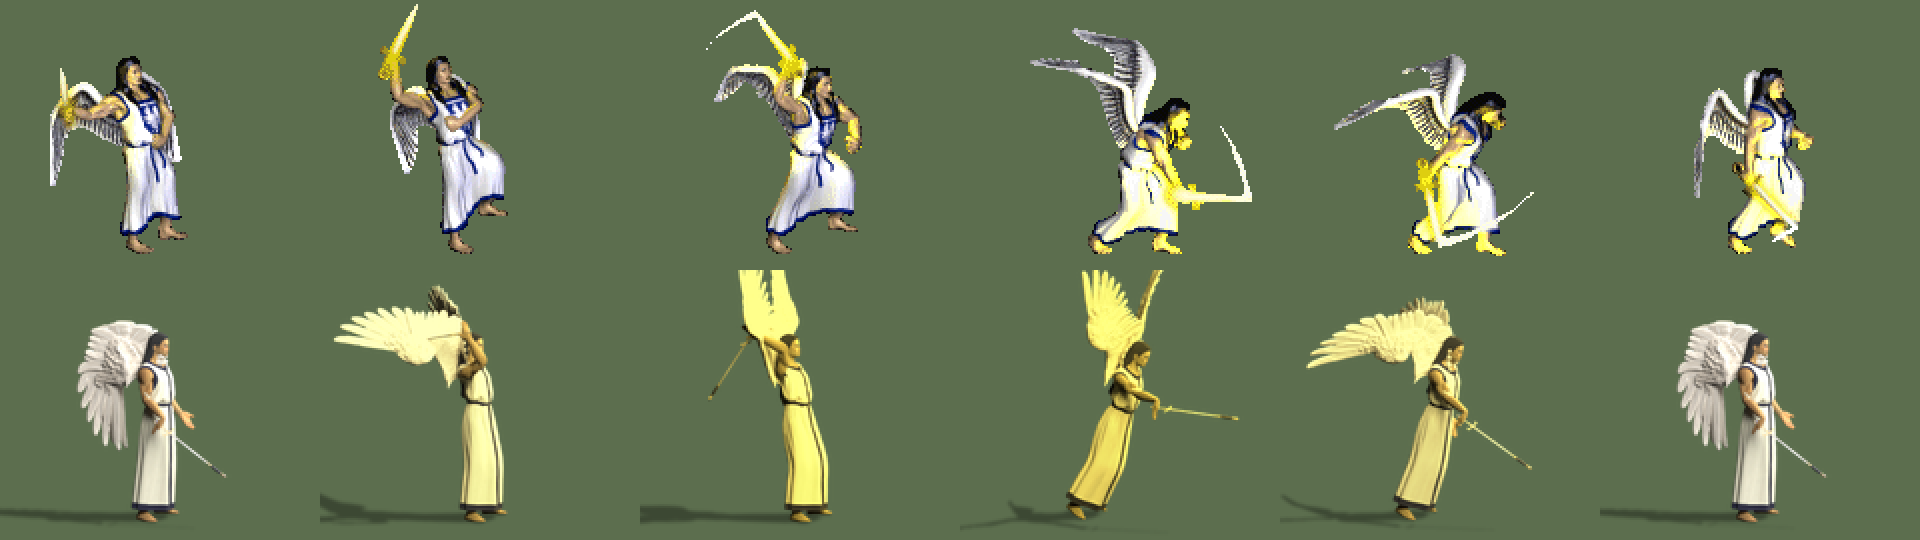
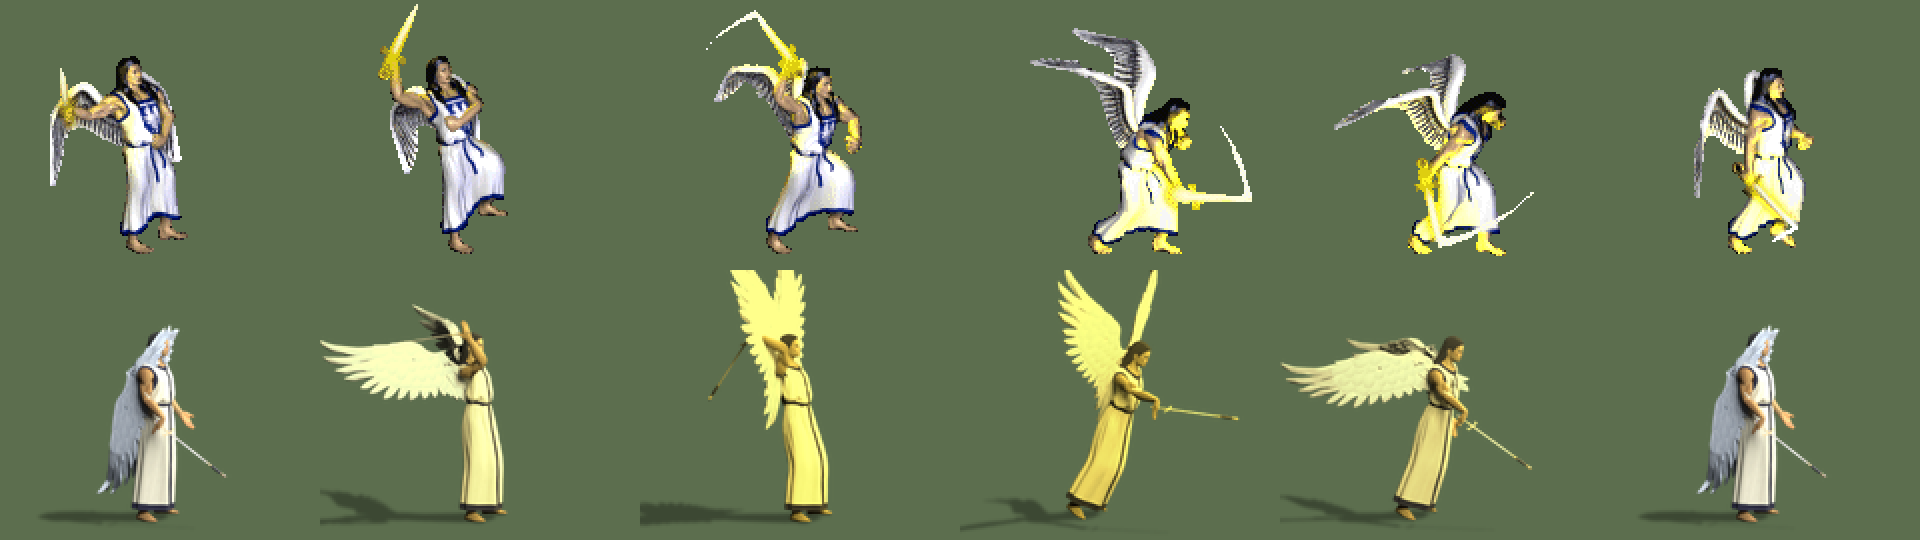
Rebuild angel wings: Meshy text-to-3D wing pair, native flap and fold
Angel 0.18.1 and Archangel 0.19.1 (mod 0.21.0). Adds a native / first
wings / rebuilt comparison and regenerates the angel figures from the
installed sprites.

diff --git a/content/posts/castle-cavalry-angels.md b/content/posts/castle-cavalry-angels.md
@@ -3,7 +3,7 @@ title: "[AI] Castle cavalry and angels"
 date: 2026-09-26T12:20:00+08:00
 series: ["Enhancing Heroes III with Generative AI"]
 ai: true
-homeSummary: "Full action sets for the Cavalier, Champion, Angel and Archangel are in the local test mod, compared frame by frame with the originals; battle screenshots and art review are still to do."
+homeSummary: "Full action sets for the Cavalier, Champion, Angel and Archangel are in the local test mod, with rebuilt angel wings, compared frame by frame with the originals; battle screenshots and art review are still to do."
 tags: ["vcmi", "ai", "graphics", "blender", "meshy", "flux", "castle"]
 ---
 
@@ -47,7 +47,15 @@ The new concept comes from [FLUX.2 [pro]](https://bfl.ai/) by Black Forest Labs:
 
 ![Left: the old draft, static render. Right: the new Angel body, Blender still, wings not attached](/images/castle-top-tier-01/angel-models.jpg)
 
-Each wing has three bones hung off the chest, with weights blended by distance from the root, so body, wings and sword share one pose. A folded wing bends 110–130° at the wrist; at 170° the outer part folds back onto the shoulder.
+Each wing has three bones hung off the chest, with weights blended by distance from the root, so body, wings and sword share one pose. <s>A folded wing bends 110–130° at the wrist; at 170° the outer part folds back onto the shoulder.</s>
+
+### Wings rebuilt (26 September)
+
+The first wings came from a FLUX concept of a single wing. They were short and broad, the feathers ran together, they stood straight up in flight, and folded they made a large fan behind the back. The rebuilt wings come from Meshy's text-to-3D, straight from a text prompt with no concept image. Two candidates cost 20 credits each for the preview and 10 for the texture. The one kept came back as a spread pair joined by a small piece of body, with layered coverts and separate primaries. Cut down the middle with the body removed, each half is one wing.
+
+The poses were redone against the original frames too. In flight the original sweeps the wings back almost level, then raises them and strokes forward and down; they do not pump straight up and down. Folded, they hang flat against the back with the top above the shoulders and the tips at the thighs. Folding within the wing's own plane had turned the underside out, leaving a dark hole in the middle.
+
+![Original (top), first wings (middle), rebuilt (bottom): idle and three flight frames](/images/castle-top-tier-01/angel-wings.png)
 
 The original glows gold when attacking and when selected. The draft adds the glow during packaging, only on the frames that glow in the original, by pushing each pixel toward gold according to its brightness.
 
@@ -68,12 +76,12 @@ The Angels' DEFs contain three shooting groups. Neither unit shoots, so those gr
 | Unit | Version | Frames | PNGs |
 | --- | --- | --- | --- |
 | Cavalier | 0.17.1 | 81 | 342 |
-| Angel | 0.18.0 | 94 | 412 |
-| Archangel | 0.19.0 | 91 | 394 |
+| Angel | 0.18.1 | 94 | 412 |
+| Archangel | 0.19.1 | 91 | 394 |
 | Champion | 0.20.0 | 81 | 342 |
 
-Frame counts and canvases come from each unit's original DEF, and the packaging check reports 0 errors and 0 warnings. Every install backs up the files it replaces and has a checked rollback.
+Frame counts and canvases come from each unit's original DEF, and the packaging check reports 0 errors and 0 warnings. With the new wings the mod is at 0.21.0. Every install backs up the files it replaces and has a checked rollback.
 
 The 0.17.0 Cavalier loaded in a real battle, but that was before the camera fix. The four new versions have no battle screenshots yet: the test client hung during start-up this time.
 
-Known issues: the Angel flies too upright and its wings are larger than the original's; the Archangel's glow is too orange overall; the Cavalier's idle lance is held level where the original holds it upright; the Champion's barding lacks the white hem.
+Known issues: the Angel's wings open wider than the original's in the last death frame; the Archangel's glow is too orange overall; the Cavalier's idle lance is held level where the original holds it upright; the Champion's barding lacks the white hem.

diff --git a/content/posts/castle-halberdier-bootstrap.md b/content/posts/castle-halberdier-bootstrap.md
@@ -2794,13 +2794,13 @@ All fourteen models were generated from separate reviewed concepts and then chec
 | Swordsman | Thirteen groups and 76 frames installed at 1×/2×; a test battle read 45 distinct 2× body frames across nine groups; offline holding crop is centred, with native visual and transition review pending |
 | Monk | Installed local 0.6.0 candidate: fifteen groups, 109 frames, 1×/2× bodies, shadows, outlines and spell projectiles. Native logs read 109 body images across 15 groups; appearance and transitions remain under review |
 | Cavalier | <s>Separate rider, horse and lance have a melee draft; grip, full horse attack and original cadence unresolved, not installed</s><br>2026-09-26: 13 groups, 81 frames installed as 1×/2× local test 0.17.1, with a new death and the original's left-side view. See [Castle cavalry and angels](/posts/castle-cavalry-angels/). |
-| Angel | <s>Meshy humanoid rig, four local wing bones; 8-frame holding and 7-frame flight review accepted; <s>first sword rebind leaves a second vertical rest weapon and is rejected</s>; separate Meshy sword passes static review, but the matching unarmed-body candidate has perforated wings and is rejected</s><br>2026-09-26: the old model was off-likeness and was rebuilt from a new concept; 13 groups, 94 frames installed (0.18.0). See [Castle cavalry and angels](/posts/castle-cavalry-angels/). |
+| Angel | <s>Meshy humanoid rig, four local wing bones; 8-frame holding and 7-frame flight review accepted; <s>first sword rebind leaves a second vertical rest weapon and is rejected</s>; separate Meshy sword passes static review, but the matching unarmed-body candidate has perforated wings and is rejected</s><br>2026-09-26: the old model was off-likeness and was rebuilt from a new concept; 13 groups, 94 frames installed (0.18.0; 0.18.1 with rebuilt wings, 26 September). See [Castle cavalry and angels](/posts/castle-cavalry-angels/). |
 | Marksman | Installed 1×/2× test package has 16 active groups /97 frames; combined native logs read 87 body images in 15 groups, with the prone death revision installed. Defence coverage, fingers and action transitions unfinished |
 | Royal Griffin | <s>New flight-specific Meshy mesh has flight, front pounce, hit and defence trials; directional attacks, death, full layers and integration unfinished</s><br>2026-09-22 correction: the 13-clip, 85-frame draft is installed as private test 0.15.0. Mod startup loading was verified; battle behavior, wing intersections and appearance remain unaccepted. |
 | Crusader | Private 0.13.0 test installed: thirteen groups, 76 frames; armor/shield proportions and front-attack/hit revisions. Native likeness, garments, death and transitions remain unfinished. |
 | Zealot | Mantle revision 638 installed: 18 groups, 150 slots, 1×/2×. New native logs read 113 body images across 14 groups and three projectile directions. Defence, three special groups and visual acceptance remain unfinished |
 | Champion | <s>Mounted gait and skin-weight repair remain experimental; version26 rejected, with local joint deformation and original gait still unresolved in version25; not installed</s><br>2026-09-26: now uses the Cavalier's rig and motion with plume, eagle shield and horse armour; 13 groups, 81 frames installed (0.20.0). See [Castle cavalry and angels](/posts/castle-cavalry-angels/). |
-| Archangel | <s>Separate Meshy sword with a local-wing humanoid rig; holding, 7-frame flight, three 6-frame sword attacks, 10-frame defence, 6-frame hit, and move transitions accepted in review</s><br>2026-09-26: rebuilt on a new model; 13 groups, 91 frames installed (0.19.0). See [Castle cavalry and angels](/posts/castle-cavalry-angels/). |
+| Archangel | <s>Separate Meshy sword with a local-wing humanoid rig; holding, 7-frame flight, three 6-frame sword attacks, 10-frame defence, 6-frame hit, and move transitions accepted in review</s><br>2026-09-26: rebuilt on a new model; 13 groups, 91 frames installed (0.19.0; 0.19.1 with rebuilt wings). See [Castle cavalry and angels](/posts/castle-cavalry-angels/). |
 
 <details>
 <summary>Roster overview before this update (historical)</summary>

diff --git a/content/posts/castle-cavalry-angels.zh.md b/content/posts/castle-cavalry-angels.zh.md
@@ -3,7 +3,7 @@ title: "[AI]城堡骑士与天使"
 date: 2026-09-26T12:20:00+08:00
 series: ["用生成式ai增强英雄无敌3"]
 ai: true
-homeSummary: "骑士、骑士统领、天使、大天使的完整动作组已装进本地测试版，附原版逐帧对照；实战截图和造型验收还没做。"
+homeSummary: "骑士、骑士统领、天使、大天使的完整动作组已装进本地测试版，天使的翅膀已重做，附原版逐帧对照；实战截图和造型验收还没做。"
 tags: ["vcmi", "ai", "graphics", "blender", "meshy", "flux", "castle"]
 ---
 
@@ -47,7 +47,15 @@ tags: ["vcmi", "ai", "graphics", "blender", "meshy", "flux", "castle"]
 
 ![左：旧稿的静态渲染。右：新的天使身体，Blender 静帧，未加翅膀](/images/castle-top-tier-01/angel-models.jpg)
 
-翅膀每侧三根骨头，挂在胸椎上，权重按到翼根的距离平滑过渡，这样身体、翅膀、剑共用一套姿态。收翼时腕部要弯 110–130°；弯到 170° 的话，外侧那段会折回肩膀上。
+翅膀每侧三根骨头，挂在胸椎上，权重按到翼根的距离平滑过渡，这样身体、翅膀、剑共用一套姿态。<s>收翼时腕部要弯 110–130°；弯到 170° 的话，外侧那段会折回肩膀上。</s>
+
+### 翅膀重做（9 月 26 日）
+
+第一版翅膀用的是 FLUX 概念图转出来的单片翅膀：又短又宽，羽毛糊成一团，飞行时直直竖着，收起来是背后一大团扇面。这次改用 Meshy 的 text-to-3D，直接从文字生成模型，不经过概念图。生成了两个候选，每个预览 20 credits、贴图 10 credits。选中的那个出来是一对展开的翅膀，中间连着一小块身体，羽毛分层清楚，飞羽一根根分开。从中间切开、去掉那块身体，左右两半各当一侧翅膀。
+
+姿势也按原版逐帧改了。飞行时原版的翅膀先向后平展，再抬起、向前下扑，不是上下直拍。收翼时翅膀贴着后背往下垂，顶端高过肩膀，羽尖到大腿；之前在翅膀平面里折叠，会把翅膀下侧翻出来，中间是一个黑洞。
+
+![原版（上）、第一版翅膀（中）、重做后（下）：待机和三帧飞行](/images/castle-top-tier-01/angel-wings.png)
 
 原版攻击和选中时整个人会发金光。新稿把光留到打包时再加：只在原版发光的那几帧上，按亮度往金色偏。
 
@@ -68,12 +76,12 @@ tags: ["vcmi", "ai", "graphics", "blender", "meshy", "flux", "castle"]
 | 兵种 | 版本 | 帧数 | PNG |
 | --- | --- | --- | --- |
 | 骑士 | 0.17.1 | 81 | 342 |
-| 天使 | 0.18.0 | 94 | 412 |
-| 大天使 | 0.19.0 | 91 | 394 |
+| 天使 | 0.18.1 | 94 | 412 |
+| 大天使 | 0.19.1 | 91 | 394 |
 | 骑士统领 | 0.20.0 | 81 | 342 |
 
-帧数和画布都取自各自的原版 DEF，打包检查 0 错误、0 警告。每次安装都先备份原有文件，并检查过回退。
+帧数和画布都取自各自的原版 DEF，打包检查 0 错误、0 警告。换翅膀后 mod 版本为 0.21.0。每次安装都先备份原有文件，并检查过回退。
 
 0.17.0 的骑士在实战里读到了新素材，但那是换视角之前的版本。四个兵种的新版本还没有实战截图：这次的测试客户端卡在了启动阶段。
 
-已知问题：天使飞行时身体太直，翅膀比原版大；大天使的发光整体偏橙；骑士待机时骑枪是平端的，原版竖着拿；骑士统领的马衣缺白边。
+已知问题：天使倒地最后一帧翅膀比原版张得开；大天使的发光整体偏橙；骑士待机时骑枪是平端的，原版竖着拿；骑士统领的马衣缺白边。
